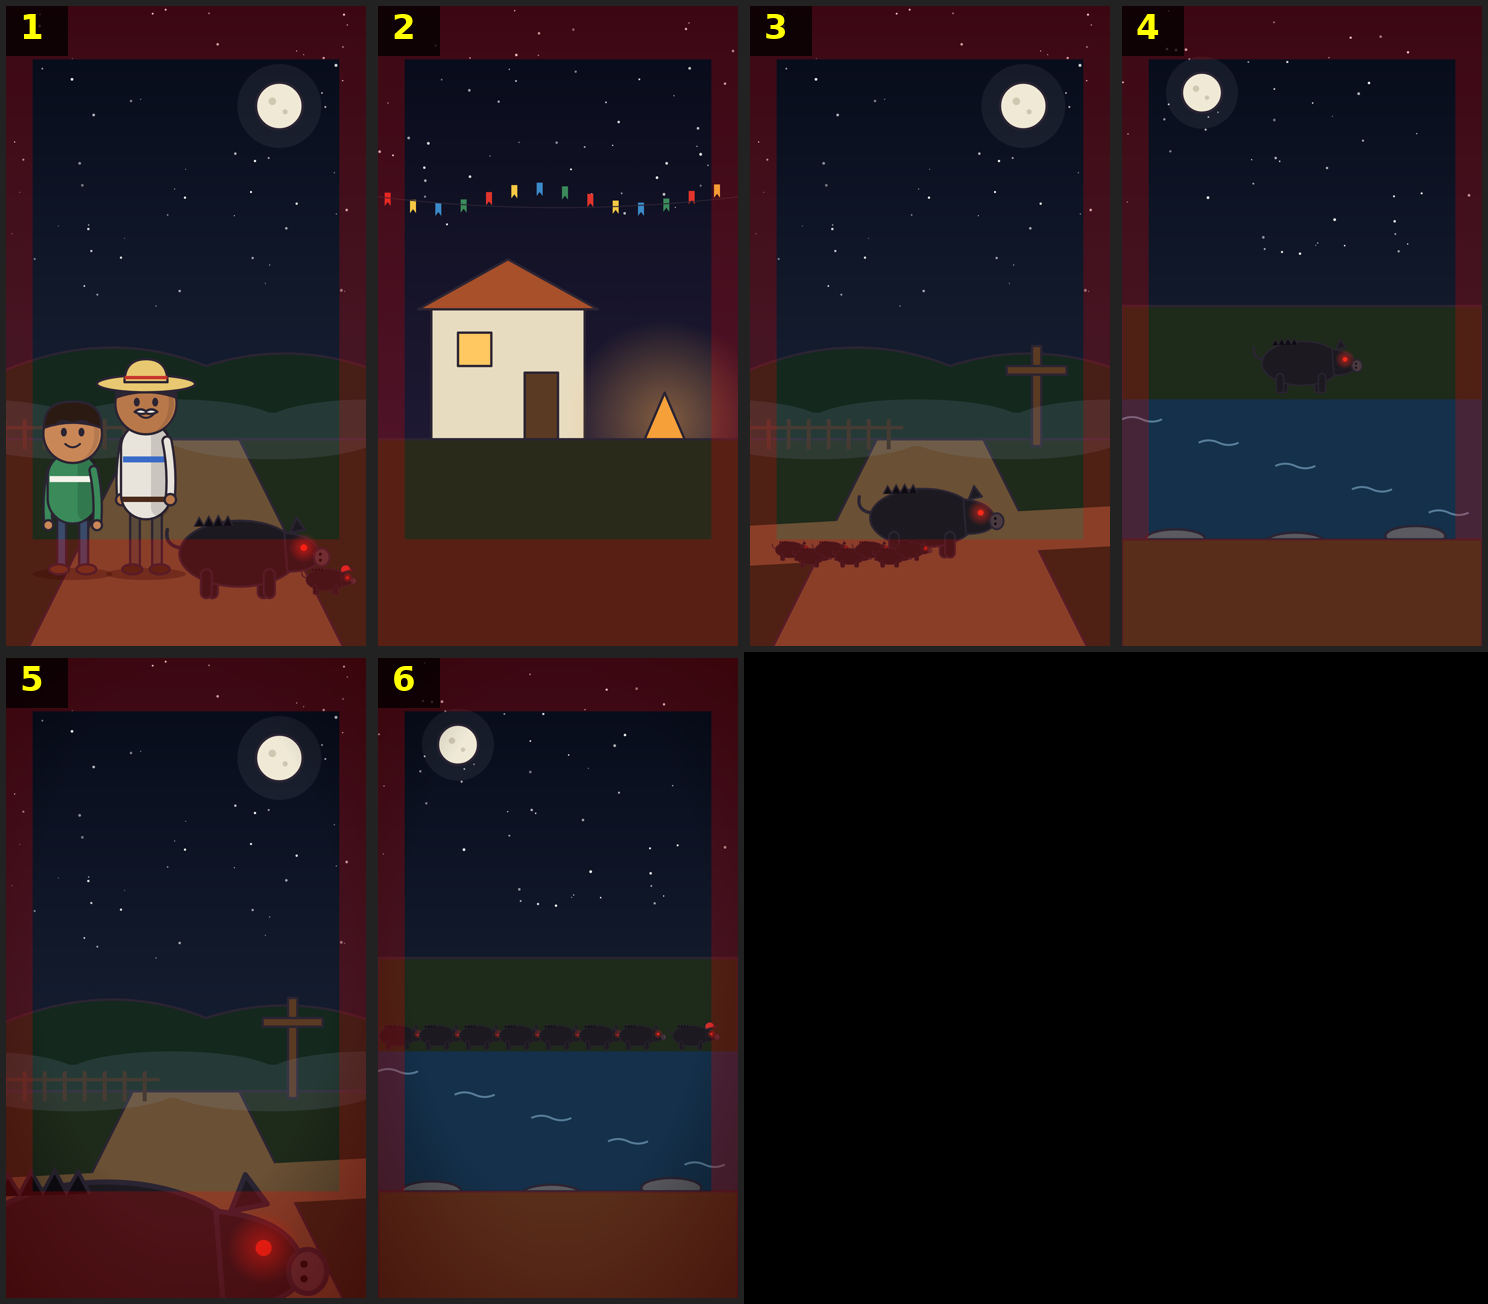
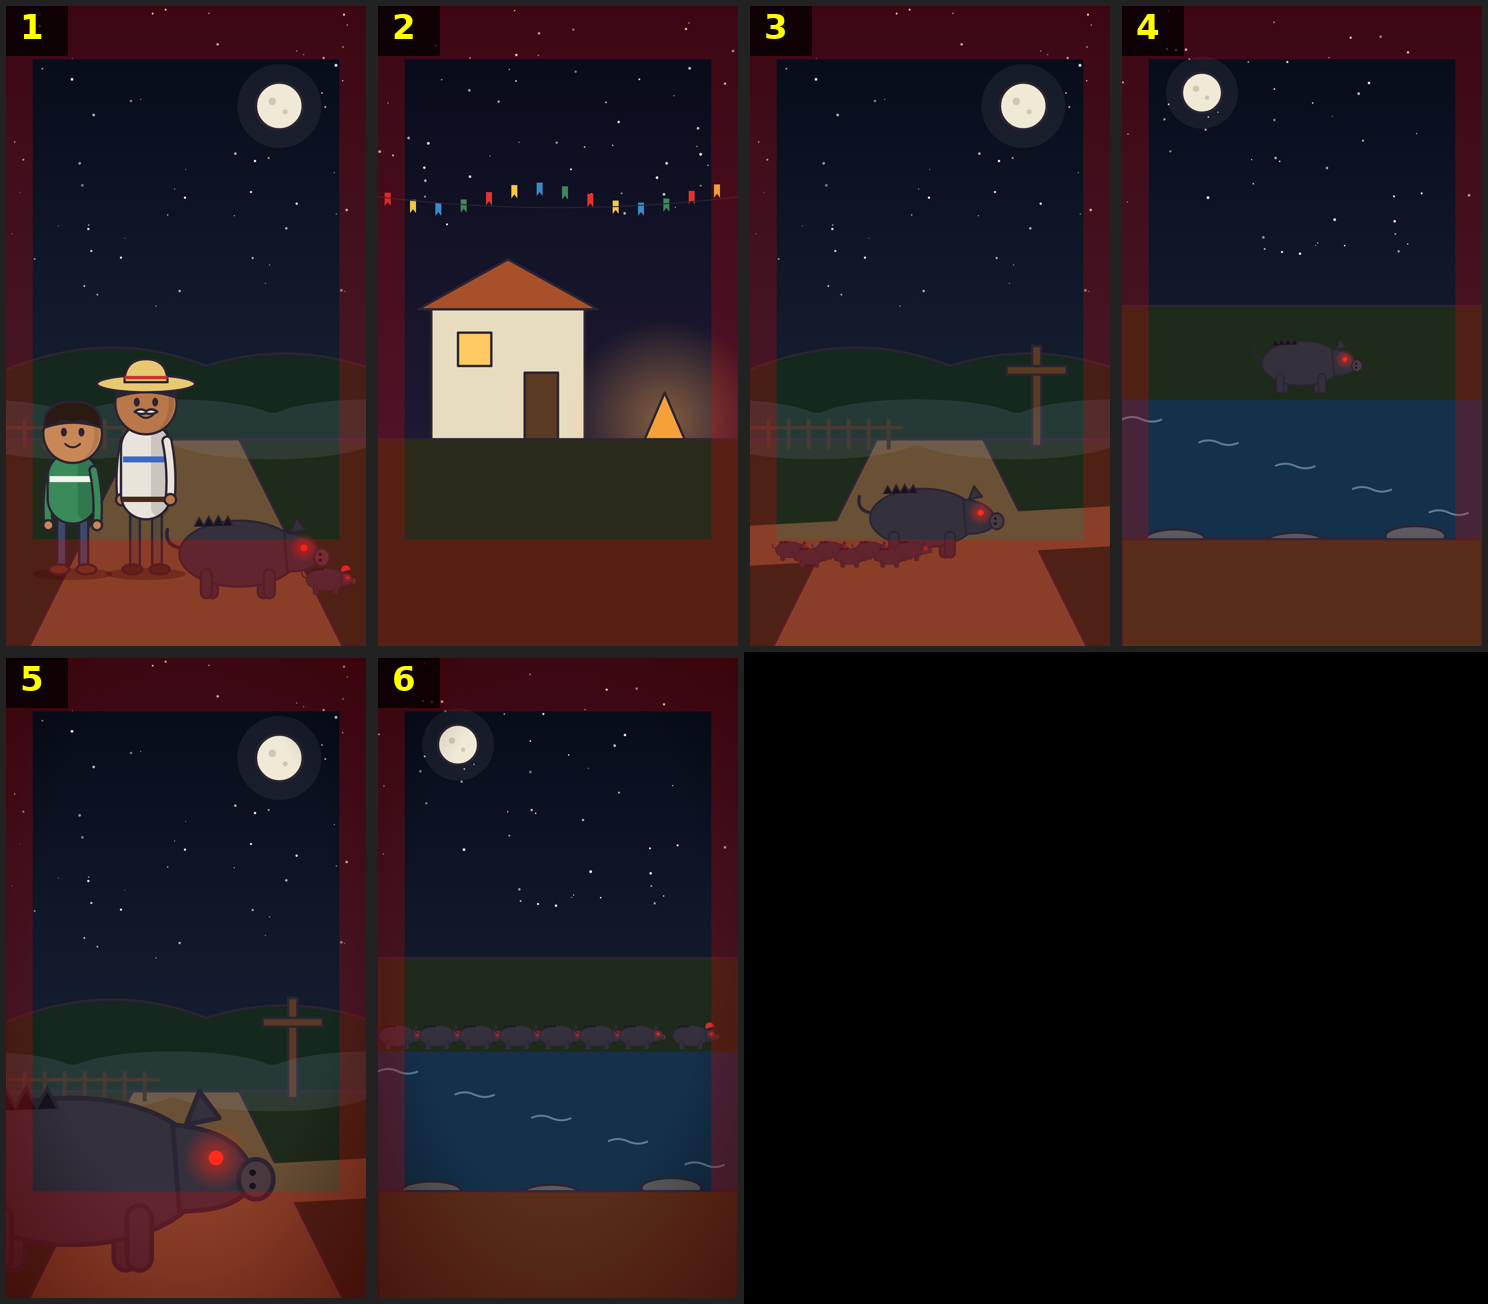
Lendas BR EP.16 e EP.18: render, capas, descrições e edits.json
Claude-Session: https://claude.ai/code/session_01MUXnwG6fyaHSeYanEaGS8q

diff --git a/videos/lenda-porca-sete-leitoes/world.ts b/videos/lenda-porca-sete-leitoes/world.ts
@@ -57,6 +57,6 @@ defineVisuals({
   'test-farm': { bg: '#060a18', html: () => svg(`${psFarm()}`), anim() {} },
   'test-cross': { bg: '#060a18', html: () => svg(`${psRoad(true)}${psPig('pg', 520, 1640, 0.8)}${[0, 1, 2, 3, 4, 5, 6].map((i) => psPig('l' + i, 120 + i * 60, 1660 + (i % 2) * 20, 0.22)).join('')}`), anim() {} },
   'test-stream': { bg: '#060a18', html: () => svg(`${psStream()}${psPig('pg', 540, 1150, 0.6)}`), anim() {} },
-  'cover-a': { bg: '#060a18', html: () => svg(`${psRoad(true)}${psPig('pg', 300, 2100, 2.2)}${bzVignette(0.5)}`), anim() {} },
+  'cover-a': { bg: '#060a18', html: () => svg(`${psRoad(true)}${psPig('pg', 200, 1800, 2.0)}${bzVignette(0.5)}`), anim() {} },
   'cover-b': { bg: '#060a18', html: () => svg(`${psStream()}${[0, 1, 2, 3, 4, 5, 6].map((i) => psPig('l' + i, 60 + i * 120, 1170, 0.28)).join('')}${psPig('l7', 940, 1170, 0.28, true)}${bzVignette(0.5)}`), anim() {} },
 });

diff --git a/canais.md b/canais.md
@@ -8,7 +8,7 @@ Cada pedido do usuário vai para um canal só. Antes de escrever, veja qual é o
 | Idioma do vídeo | português do Brasil | inglês (dos EUA); a conversa com o usuário continua em português |
 | Selo no vídeo e na capa | `LENDAS DO BRASIL` + `EP.N` | `AMERICAN LEGENDS` + `EP.N` (nome provisório: troque aqui e no `badge` se o usuário escolher outro) |
 | Pasta | `videos/lenda-<nome>` | `videos/us-<name>` (nome em inglês, kebab-case) |
-| Episódios feitos | EP.1–15 (último: EP.15 O Cabeça de Cuia) | EP.1–3 (último: EP.3 Resurrection Mary) |
+| Episódios feitos | EP.1–18 (último: EP.18 A Porca dos Sete Leitões) | EP.1–3 (último: EP.3 Resurrection Mary) |
 | Vozes (`videos/turno-da-madrugada/tools/voices.py`) | Kokoro `pf_`/`pm_` + Piper pt_BR, ids `<pref>_eu`, `<pref>_vo`... | Kokoro `af_`/`am_` (inglês dos EUA), ids `us_narr`, `us_narrf`, `us_kid`, `us_girl`, `us_man`, `us_woman`, `us_old`, `us_ghost` (ou novos `us_<ep>_<papel>`) |
 | `script.json` | normal (`lang` é `pt` por padrão) | com `"lang": "en"` (a atuação do Chatterbox fala inglês) |
 | Transcrição | `core/transcribe.py ... --language pt` | `core/transcribe.py ... --language en` |
